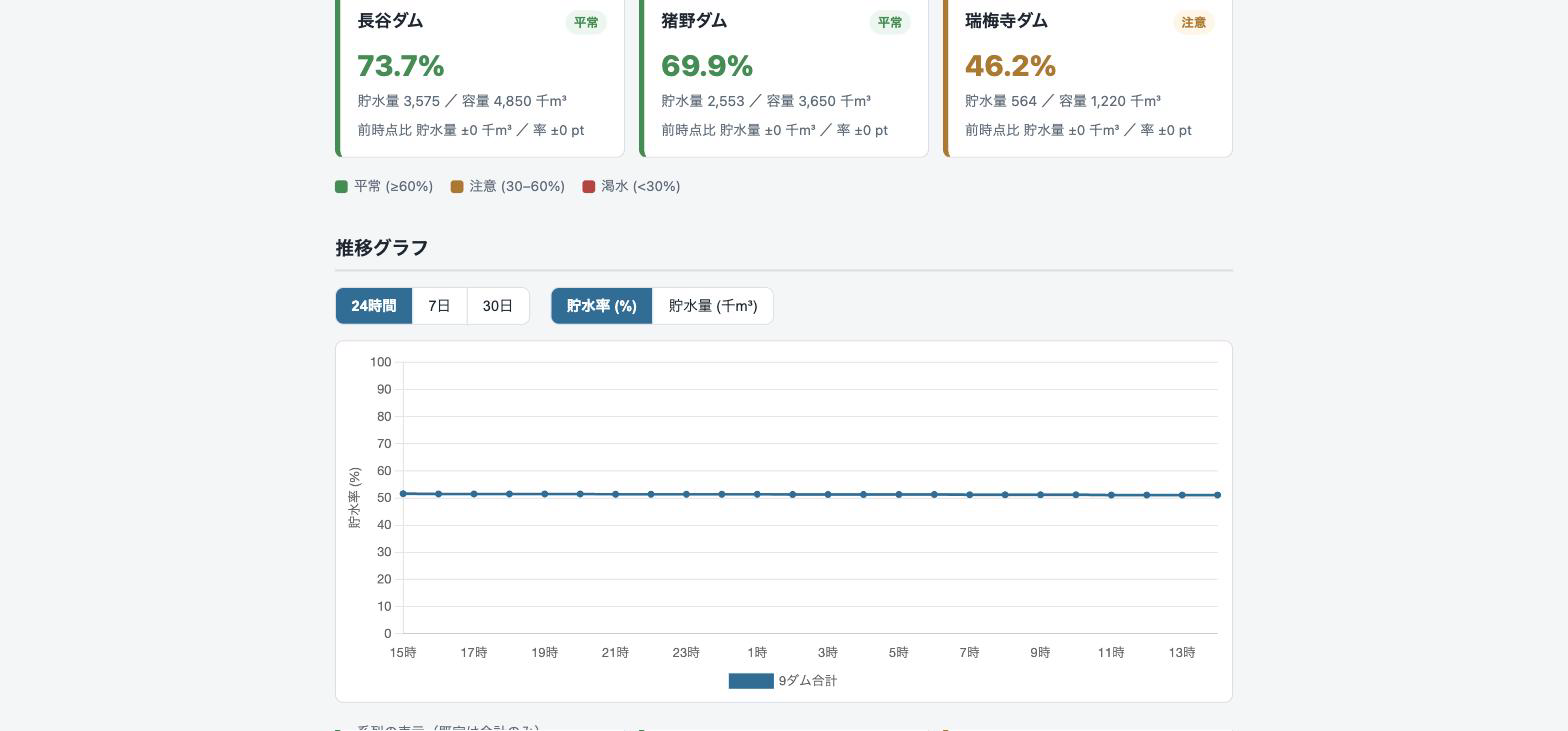
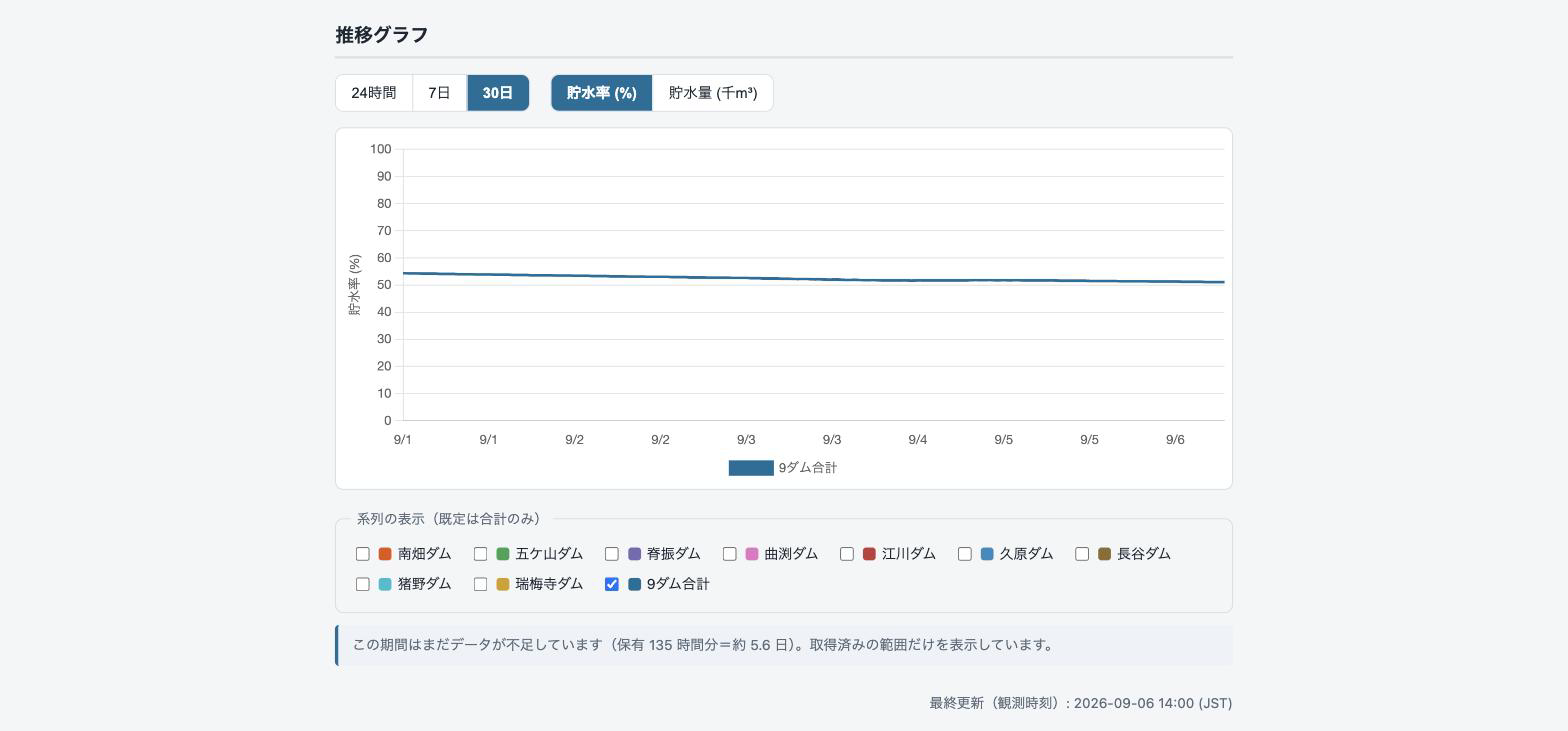
feat(chart): 推移グラフの初期表示を30日に変更
- chartState.range と index.html のトグル初期 active を 24h → 30d
- README のスクショ（trend-chart-pc）と説明を30日デフォルトに更新

diff --git a/index.html b/index.html
@@ -49,9 +49,9 @@
 
       <div class="chart-controls">
         <div class="range-toggle" id="range-toggle" role="group" aria-label="表示期間">
-          <button type="button" data-range="24h" class="is-active">24時間</button>
+          <button type="button" data-range="24h">24時間</button>
           <button type="button" data-range="7d">7日</button>
-          <button type="button" data-range="30d">30日</button>
+          <button type="button" data-range="30d" class="is-active">30日</button>
         </div>
         <div class="metric-toggle" id="metric-toggle" role="group" aria-label="表示指標">
           <button type="button" data-metric="rate" class="is-active">貯水率 (%)</button>

diff --git a/assets/app.js b/assets/app.js
@@ -303,7 +303,7 @@ DAMS.forEach(function (d) { SERIES_LABELS[d.key] = d.label; });
 var RANGE_POINTS = { "24h": 24, "7d": 24 * 7, "30d": 24 * 30 };
 
 var chartState = {
-  range: "24h",
+  range: "30d",
   metric: "rate", // "rate" | "storage"
   visible: { total: true }, // 既定は合計のみ
   history: null,

diff --git a/README.md b/README.md
@@ -45,7 +45,7 @@ python3 -m http.server 8000
 9ダム個別カード（貯水率・貯水量・前時点比・平常/注意/渇水の色分け）／観測時刻と取得元の表示／
 フッタの出典表記（福岡市オープンデータ / BODIK）。実データが読めない場合は
 `data/*.sample.json` にフォールバックし「サンプルデータ表示中」バッジが出ること。
-推移グラフが描画され、24時間 / 7日 / 30日トグル・指標（貯水率 / 貯水量）切替・
+推移グラフが描画され、24時間 / 7日 / 30日トグル（**初期表示は 30日**）・指標（貯水率 / 貯水量）切替・
 系列 on/off（既定は合計のみ）が動くこと。
 JS 構文チェックは `node --check assets/app.js`。
 
@@ -69,7 +69,7 @@ JS 構文チェックは `node --check assets/app.js`。
 
 ### 推移グラフ
 
-合計貯水率の推移。24時間 / 7日 / 30日トグル・指標（貯水率 / 貯水量）切替・系列 on/off。
+合計貯水率の推移。24時間 / 7日 / 30日トグル（初期表示は 30日）・指標（貯水率 / 貯水量）切替・系列 on/off。
 
 | デスクトップ | 狭幅（スマホ相当） |
 | --- | --- |
